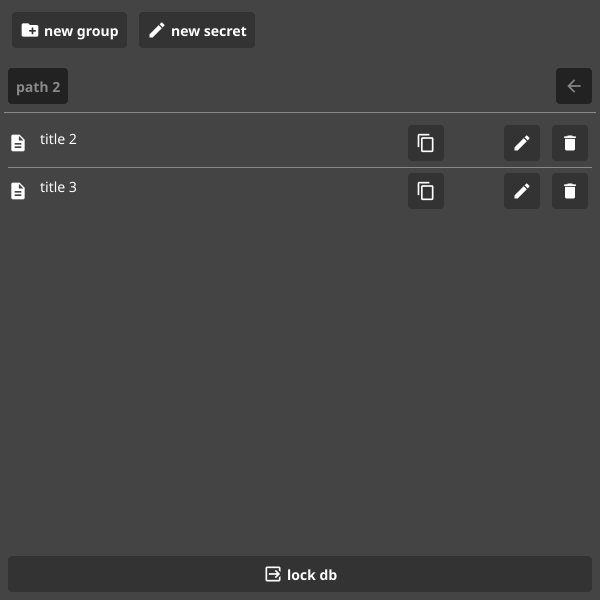
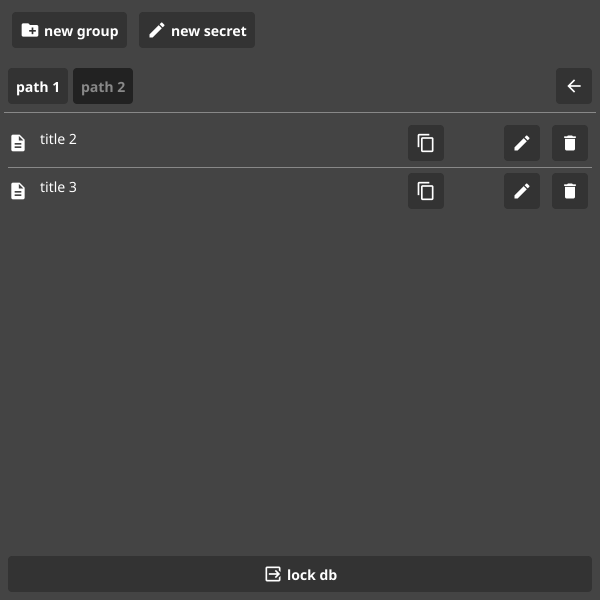
[ENH-35] Change to group when tapping on group

Changed region(s): [[0.03, 0.09, 0.24, 0.18], [0.93, 0.12, 0.96, 0.15]]

diff --git a/internal/ui/navview.go b/internal/ui/navview.go
@@ -16,17 +16,16 @@ import (
 )
 
 type NavView struct {
-	stagerController    StagerController
-	navAndListContainer *fyne.Container
-	navTop              *fyne.Container
-	// SaveButton              *widget.Button
+	stagerController        StagerController
+	navAndListContainer     *fyne.Container
+	navTop                  *fyne.Container
 	GroupCreateButton       *widget.Button
 	SecretEntryCreateButton *widget.Button
 	GoBackButton            *widget.Button
 	LockDBButton            *widget.Button
 	breadCrumbs             *fyne.Container
 	generalButtons          *fyne.Container
-	listPanel               *fyne.Container
+	ListPanel               *fyne.Container
 	addEntryView            EntryUpdater
 	parent                  fyne.Window
 	secretsReader           secretsreader.SecretReader
@@ -47,15 +46,6 @@ func (n *NavView) DataChanged() {
 
 	n.UpdateNavView(n.secretsReader.GetFirstPath())
 
-	// n.SaveButton.OnTapped = func() {
-	// 	err := n.secretsReader.Save()
-
-	// 	if err != nil {
-	// 		dialog.ShowError(err, n.parent)
-	// 		return
-	// 	}
-	// }
-
 	if n.stagerController != nil {
 		err := n.stagerController.TakeOver(n.GetStageName())
 		if err != nil {
@@ -64,32 +54,6 @@ func (n *NavView) DataChanged() {
 	}
 
 }
-
-// func getLocationURI(fURI fyne.URI) (fyne.ListableURI, error) {
-// 	if !fyne.CurrentDevice().IsMobile() {
-// 		listable, err := storage.CanList(fURI)
-
-// 		if err != nil {
-// 			slog.Error(err.Error())
-// 		}
-// 		// if full URI is not listable, attempt with parent
-// 		if !listable {
-// 			locationURI, err := storage.Parent(fURI)
-// 			if err == nil {
-// 				listable, err = storage.CanList(locationURI)
-// 			}
-// 			if err == nil && listable {
-// 				listableURI, err := storage.ListerForURI(locationURI)
-// 				if err != nil {
-// 					return nil, err
-// 				} else {
-// 					return listableURI, nil
-// 				}
-// 			}
-// 		}
-// 	}
-// 	return nil, nil
-// }
 
 func (n *NavView) UpdateNavView(path string) {
 
@@ -128,9 +92,9 @@ func (n *NavView) UpdateNavView(path string) {
 		}
 	}
 
-	n.listPanel.RemoveAll()
-	n.listPanel.Add(list)
-	n.listPanel.Refresh()
+	n.ListPanel.RemoveAll()
+	n.ListPanel.Add(list)
+	n.ListPanel.Refresh()
 	n.currentPath = path
 
 	n.GroupCreateButton.OnTapped = func() {
@@ -253,6 +217,19 @@ func createListNav(path string, parent fyne.Window, navView *NavView) (*widget.L
 
 		})
 
+	newList.OnSelected = func(id widget.ListItemID) {
+		newList.UnselectAll()
+		secretRaw, err := untypedList.GetValue(id)
+		if err == nil {
+			secret, ok := secretRaw.(secretsdb.SecretEntry)
+			if ok {
+				if secret.IsGroup {
+					navView.UpdateNavView(strings.Join([]string{secret.Group, secret.Title}, "|"))
+				}
+			}
+		}
+	}
+
 	for _, v := range listOfSecretsForPath {
 		err := untypedList.Append(v)
 		if err != nil {
@@ -278,9 +255,6 @@ func CreateNavView(secretsReader secretsreader.SecretReader, addEntryView EntryU
 		generalButtons,
 	), container.NewPadded(breadcrumbsWithBackButton), nil, nil, nil)
 
-	// saveButton := widget.NewButtonWithIcon("save", theme.DocumentSaveIcon(), func() {
-
-	// })
 	groupCreateButton := widget.NewButtonWithIcon("new group", theme.FolderNewIcon(), func() {
 
 	})
@@ -302,19 +276,18 @@ func CreateNavView(secretsReader secretsreader.SecretReader, addEntryView EntryU
 	navAndListContainer := container.NewBorder(container.NewVBox(navTop, widget.NewSeparator()), container.NewPadded(lockDBButton), nil, nil, listPanel)
 
 	return NavView{
-		stagerController:    stagerController,
-		navAndListContainer: navAndListContainer,
-		breadCrumbs:         breadCrumbs,
-		listPanel:           listPanel,
-		addEntryView:        addEntryView,
-		parent:              parent,
-		secretsReader:       secretsReader,
-		currentPath:         "",
-		GoBackButton:        goBackButton,
-		LockDBButton:        lockDBButton,
-		generalButtons:      generalButtons,
-		navTop:              navTop,
-		// SaveButton:              saveButton,
+		stagerController:        stagerController,
+		navAndListContainer:     navAndListContainer,
+		breadCrumbs:             breadCrumbs,
+		ListPanel:               listPanel,
+		addEntryView:            addEntryView,
+		parent:                  parent,
+		secretsReader:           secretsReader,
+		currentPath:             "",
+		GoBackButton:            goBackButton,
+		LockDBButton:            lockDBButton,
+		generalButtons:          generalButtons,
+		navTop:                  navTop,
 		GroupCreateButton:       groupCreateButton,
 		SecretEntryCreateButton: secretEntryCreateButton,
 	}

diff --git a/internal/ui/navview_test.go b/internal/ui/navview_test.go
@@ -9,6 +9,7 @@ import (
 	"keepassui/internal/ui"
 	"slices"
 	"testing"
+	"time"
 
 	"fyne.io/fyne/v2"
 	"fyne.io/fyne/v2/container"
@@ -119,10 +120,47 @@ func TestNavView_NavigateToNestedFolder(t *testing.T) {
 
 	test.AssertImageMatches(t, "navView_two_groups.png", w.Canvas().Capture())
 
-	secretReader.EXPECT().GetEntriesForPath("path 2").Times(1).Return(secretsDBWithTwoGroups().EntriesByPath["path 2"])
+	secretReader.EXPECT().GetEntriesForPath("path 1|path 2").Times(1).Return(secretsDBWithTwoGroups().EntriesByPath["path 1|path 2"])
 
 	// Ideally we would simulate a click from the UI but I struggle to find the right open button from the list
-	navView.UpdateNavView("path 2")
+	navView.UpdateNavView("path 1|path 2")
+
+	test.AssertImageMatches(t, "navView_two_groups_nested_group.png", w.Canvas().Capture())
+}
+
+func TestNavView_NavigateToNestedFolderByTappingOnListItem(t *testing.T) {
+	w := test.NewWindow(container.NewWithoutLayout())
+	mockCtrl := gomock.NewController(t)
+	defer mockCtrl.Finish()
+
+	secretReader := mock_secretsreader.NewMockSecretReader(mockCtrl)
+
+	secretReader.EXPECT().ReadEntriesFromContentGroupedByPath().Times(1).Return(nil)
+	secretReader.EXPECT().GetUriID().Times(1).Return("path")
+	secretReader.EXPECT().GetFirstPath().Times(1).Return("path 1")
+	secretReader.EXPECT().GetEntriesForPath("path 1").Times(1).Return(secretsDBWithTwoGroups().EntriesByPath["path 1"])
+
+	navView := ui.CreateNavView(secretReader, nil, w, nil)
+
+	navView.DataChanged()
+	w.SetContent(navView.GetPaintedContainer())
+	w.Resize(fyne.NewSize(600, 600))
+
+	test.AssertImageMatches(t, "navView_two_groups.png", w.Canvas().Capture())
+
+	secretReader.EXPECT().GetEntriesForPath("path 1|path 2").Times(1).Return(secretsDBWithTwoGroups().EntriesByPath["path 1|path 2"])
+
+	objects := test.LaidOutObjects(navView.ListPanel.Objects[0])
+
+	// Since widget.listItem is unexported we can't use it as filter in the objects array.
+	tappable, ok := objects[40].(fyne.Tappable)
+	if ok {
+		test.Tap(tappable)
+	} else {
+		t.FailNow()
+	}
+
+	time.Sleep(10 * time.Millisecond)
 
 	test.AssertImageMatches(t, "navView_two_groups_nested_group.png", w.Canvas().Capture())
 }
@@ -150,45 +188,15 @@ func TestNavView_DeleteFirstEntry(t *testing.T) {
 
 	// Ideally we would simulate a click from the UI but I struggle to find the right open button from the list
 	secretsDBWithTwoGroups.DeleteSecretEntry(secretsdb.SecretEntry{
-		Title: "title 2", Group: "path 2", Username: "username 2",
+		Title: "title 2", Group: "path 1|path 2", Username: "username 2",
 		Password: "password 2", Url: "url 2", Notes: "notes 2"})
 
-	secretReader.EXPECT().GetEntriesForPath("path 2").Times(1).Return(secretsDBWithTwoGroups.EntriesByPath["path 2"])
+	secretReader.EXPECT().GetEntriesForPath("path 1|path 2").Times(1).Return(secretsDBWithTwoGroups.EntriesByPath["path 1|path 2"])
 
-	navView.UpdateNavView("path 2")
+	navView.UpdateNavView("path 1|path 2")
 
 	test.AssertImageMatches(t, "navView_two_groups_nested_group_with_one_entry_deleted.png", w.Canvas().Capture())
 }
-
-// func TestNavView_TapSaveButtonOpensSaveDialog(t *testing.T) {
-// 	w := test.NewWindow(container.NewWithoutLayout())
-// 	mockCtrl := gomock.NewController(t)
-// 	defer mockCtrl.Finish()
-
-// 	secretReader := mock_secretsreader.NewMockSecretReader(mockCtrl)
-
-// 	secretsDBWithTwoGroups := secretsDBWithTwoGroups()
-// 	secretReader.EXPECT().ReadEntriesFromContentGroupedByPath().Times(1).Return(nil)
-// 	secretReader.EXPECT().GetUriID().Times(1).Return("file://path")
-// 	secretReader.EXPECT().GetFirstPath().Times(1).Return("path 1")
-// 	secretReader.EXPECT().GetEntriesForPath("path 1").Times(1).Return(secretsDBWithTwoGroups.EntriesByPath["path 1"])
-
-// 	navView := ui.CreateNavView(secretReader, nil, w, nil)
-
-// 	navView.DataChanged()
-
-// 	w.SetContent(navView.GetPaintedContainer())
-// 	w.Resize(fyne.NewSize(600, 600))
-
-// 	test.AssertImageMatches(t, "navView_two_groups.png", w.Canvas().Capture())
-
-// 	secretReader.EXPECT().GetUriID().Times(1).Return("file://path")
-// 	secretReader.EXPECT().WriteDBBytes().Times(1)
-
-// 	test.Tap(navView.SaveButton)
-
-// 	test.AssertImageMatches(t, "navView_two_groups_tap_save_button.png", w.Canvas().Capture())
-// }
 
 func TestNavView_TapOnNewGroupOpensNewGroupDialog(t *testing.T) {
 	w := test.NewWindow(container.NewWithoutLayout())

diff --git a/internal/ui/secretdb_stubs_test.go b/internal/ui/secretdb_stubs_test.go
@@ -19,11 +19,11 @@ func secretsDBWithTwoGroups() secretsdb.SecretsDB {
 	secretsGroupedByPath := make(map[string][]secretsdb.SecretEntry)
 	secretsGroupedByPath["path 1"] = []secretsdb.SecretEntry{{Title: "title", Group: "path 1", Username: "username", Password: "password", Url: "url", Notes: "notes"},
 		{Title: "path 2", Group: "path 1", Notes: "", IsGroup: true}}
-	secretsGroupedByPath["path 2"] = []secretsdb.SecretEntry{
-		{Title: "title 2", Group: "path 2", Username: "username 2", Password: "password 2", Url: "url 2", Notes: "notes 2"},
-		{Title: "title 3", Group: "path 2", Username: "username 3", Password: "password 3", Url: "url 3", Notes: "notes 3"},
+	secretsGroupedByPath["path 1|path 2"] = []secretsdb.SecretEntry{
+		{Title: "title 2", Group: "path 1|path 2", Username: "username 2", Password: "password 2", Url: "url 2", Notes: "notes 2"},
+		{Title: "title 3", Group: "path 1|path 2", Username: "username 3", Password: "password 3", Url: "url 3", Notes: "notes 3"},
 	}
-	paths := []string{"path 1", "path 2"}
+	paths := []string{"path 1", "path 1|path 2"}
 	secretsDB := secretsdb.SecretsDB{
 		EntriesByPath: secretsGroupedByPath,
 		PathsInOrder:  paths,
